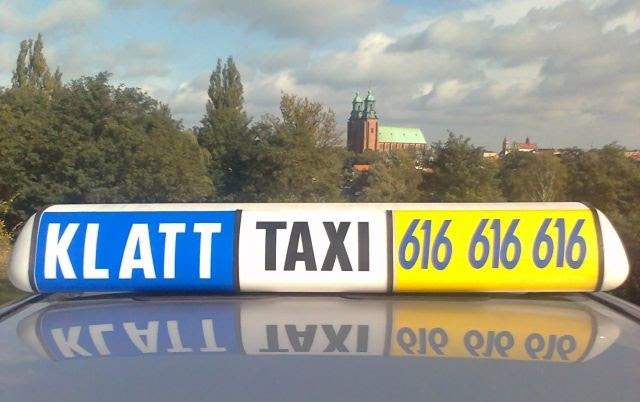
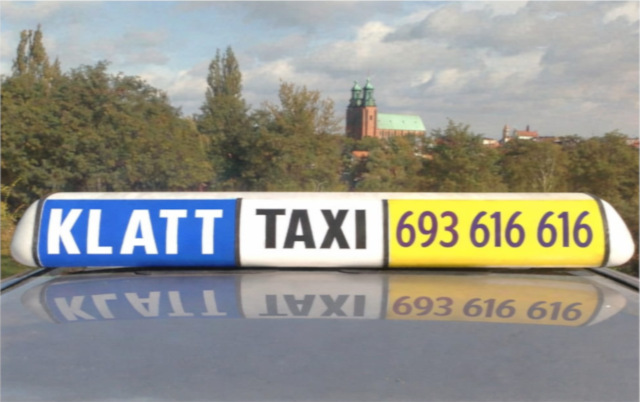
693 616 616

diff --git a/index.html b/index.html
@@ -15,14 +15,14 @@
 		<meta name="twitter:description" content="Zamów taksówkę w Gnieźnie!">
 		<meta name="twitter:image" content="https://www.taxi.gniezno.pl/taxi-gniezno.jpg">
 		<meta name="twitter:label1" content="Szacowany czas czytania">
-		<meta name="twitter:title" content="Taxi Gniezno - Zadzwoń 693 616 616 lub 616 616 616">
+		<meta name="twitter:title" content="Taxi Gniezno - Zadzwoń 693 616 616">
 		<meta name="viewport" content="width=device-width, initial-scale=1">
 		<meta property="og:description" content="Zamów taksówkę w Gnieźnie!">
 		<meta property="og:image" content="https://www.taxi.gniezno.pl/taxi-gniezno.jpg">
 		<meta property="og:image:alt" content="Taxi Gniezno">
 		<meta property="og:locale" content="pl_PL">
 		<meta property="og:site_name" content="taxi.gniezno.pl">
-		<meta property="og:title" content="Taxi Gniezno - Zadzwoń 693 616 616 lub 616 616 616">
+		<meta property="og:title" content="Taxi Gniezno - Zadzwoń 693 616 616">
 		<meta property="og:type" content="website">
 		<meta property="og:url" content="https://www.taxi.gniezno.pl/">
 		<meta property="twitter:domain" content="taxi.gniezno.pl">
@@ -68,7 +68,7 @@
 		<div class="WordSection1">
 			<p style="margin-bottom:0cm;text-align:center; line-height:normal">
 				<b>
-					<span style="font-size:16.5pt;font-family:Arial,sans-serif; color:#333333">MERCEDES - TAXI - GNIEZNO - tel. 693 616 616 lub 616 616 616</span>
+					<span style="font-size:16.5pt;font-family:Arial,sans-serif; color:#333333">MERCEDES - TAXI - GNIEZNO - tel. 693 616 616</span>
 				</b>
 			</p>
 			<div>
@@ -126,8 +126,7 @@
 				</p>
 				<p style="text-align:center;line-height:normal">
 					<b>
-						<span style="letter-spacing: 0.2em; font-size:24.0pt;font-family:Times New Roman,serif;color:red"><a style="text-decoration: none; color: red" href="tel:+48693616616">693 616 616</a> lub</span>
-						<span style="letter-spacing: 0.2em; font-size:36.0pt;font-family:Times New Roman,serif;color:red"><a style="text-decoration: none; color: red" href="tel:+48616616616">616 616 616</a></span>
+						<span style="letter-spacing: 0.2em; font-size:36.0pt;font-family:Times New Roman,serif;color:red"><a style="text-decoration: none; color: red" href="tel:+48693616616">693 616 616</a></span>
 					</b>
 				</p>
 				<p style="text-align:center;line-height:normal">
